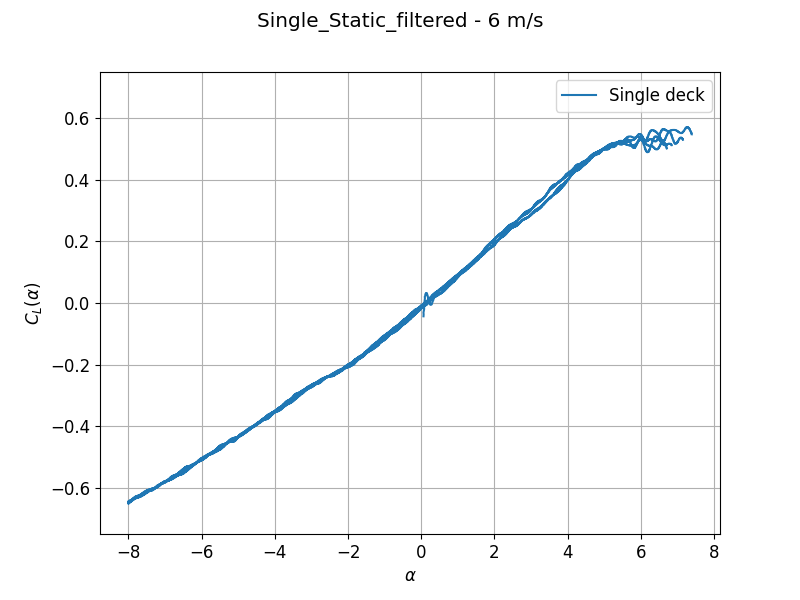
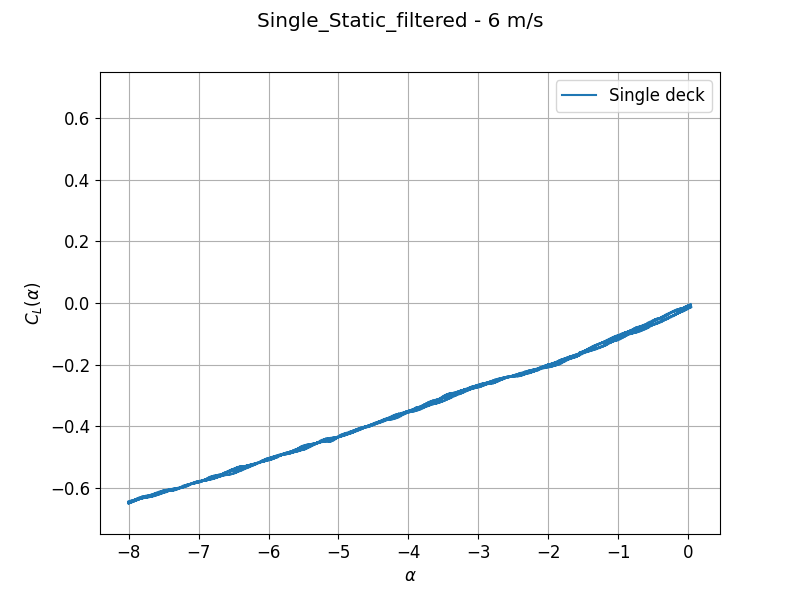
debugge

diff --git a/w3tp/w3t/_scoff.py b/w3tp/w3t/_scoff.py
@@ -1535,7 +1535,7 @@ def filter_by_reference(static_coeff_1, static_coeff_2, static_coeff_3=None, thr
         alpha = np.round(static_coeff.pitch_motion * 360 / (2 * np.pi), 1)
         return alpha, static_coeff.drag_coeff.copy(), static_coeff.lift_coeff.copy(), static_coeff.pitch_coeff.copy()
     
-    def remove_after_jump(alpha_vals, coeff_array, col1=0, col2=1, threshold_jump=0.03):
+    def remove_after_jump(alpha_vals, coeff_array, col1=0, col2=1, threshold_jump=0.08):
         """
         Fjerner alle verdier med alpha høyere enn der det først skjer et hopp
         i verdien mellom to etterfølgende alphas.
